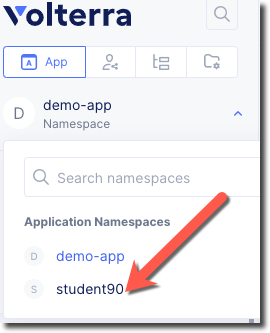
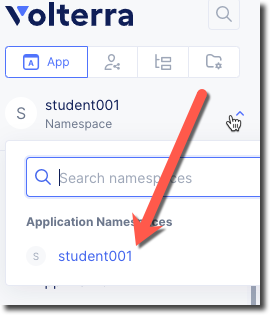
additional screenshots

diff --git a/testdrive/waf/docs/lab2/httpLB.rst b/testdrive/waf/docs/lab2/httpLB.rst
@@ -24,28 +24,28 @@ Exercise 1: HTTP Load Balancer Configuration
     Variable                          Value
     ================================= =====
     Name                              global
-    Domains                           studentXX.sales-public.f5demos.com
+    Domains                           studentXXX.sales-public.f5demos.com
     Select type of Load Balancer      HTTP
     Automatically Manage DNS Records  Yes/Check 
     ================================= =====
 
     |lb-basic|
 
-Exercise 3: Configure Default Origin Server
+Exercise 2: Configure Default Origin Server
 ~~~~~~~~~~~~~~~~~~~~~~~~~~~~~~~~~~~~~~~~~~~
 We'll next configure the "Default Origin Servers". 
     
 #. Click on the *Add Items* link under the *Default Origin Servers* section.
 
 #. The "Select Origin Pool Method" will be set to "Origin Pool". Under the "Origin Pool" dropdown menu select the "public" pool you created earlier.
+
+   .. image:: /_static/lb-pool-public.png
  
 #. Click the *Add Item* button to exit the "Origin Pools" dialogue.
 
 #. Notice that in the "VIP Creation" section *Advertise On Internet* has been selected by default.
 
-    |lb-vip|
-
-Exercise 4: Configure WAF Policy
+Exercise 3: Configure WAF Policy
 ~~~~~~~~~~~~~~~~~~~~~~~~~~~~~~~~
 
 #. Under the *Security Configuration* section 
@@ -65,12 +65,15 @@ Once the HTTP Load Balancer has been deployed, you should now be able to go to t
 previously in a web browser.  The FQDN we used in our example is http://studentXX.sales-public.f5demos.com.  
 Your FQDN should follow the format of [unique name].[supplied domain name for your tenant].
 
-Exercise 5: Verify Configuration
+.. note:: If you are having challenges connecting to the "f5demos.com" name you can also try connecting to the "ves.io" name.
+
+Exercise 4: Verify Configuration
 ~~~~~~~~~~~~~~~~~~~~~~~~~~~~~~~~
 
 The public demo app should look like the following:
 
-.. image:: frontend-public-vip.png
+.. image:: ../_static/screenshot-global-vip-public.png
+  :width: 50%
 
 In this topology we are sending traffic to an AnyCast IP that is hosted in Volterra's Regional Edge.
 
@@ -78,7 +81,11 @@ We then connect to the AWS resource via it's Public IP address.
 
 Try adding the following to the URL "?cat%20/etc/passwd".
 
-Exercise 6: Performance and Security 
+You should see a block page.
+
+.. image:: ../_static/screenshot-global-vip-public-cat-etc-passwd.png
+
+Exercise 5: Performance and Security 
 ~~~~~~~~~~~~~~~~~~~~~~~~~~~~~~~~~~~~
 
 We can view details of successful requests and blocks by navigating to "Apps & APIs"
@@ -87,12 +94,29 @@ We can view details of successful requests and blocks by navigating to "Apps & A
 
    You will allow you to see a  health score of your application as well as end to end latency of the connection.
 
+   .. image:: ../_static/screenshot-global-vip-performance-dashboard.png
+       :width: 50%
+
 #. Click on "Requests" in the upper page navigation
 
    You should be able to view logs for individual requests.
 
-You should now see a block page.  
+   .. image:: ../_static/screenshot-global-vip-public-requests.png
+       :width: 50%
+
+#. Click on "Security Monitoring"->"Security Events"
+   You will be able to see details of the security events.
+
+   .. image:: ../_static/screenshot-global-vip-public-security-events.png
+
+   Clicking on the arrow to the left of a security event will expand the details.
+
+   .. image:: ../_static/screenshot-global-vip-public-security-events-details.png
+       :width: 50%
+
 
 Next we will demonstrate how we 
 can securely connect to your private AWS resources via a VoltMesh node.
 
+.. |app-context| image:: ../_static/app-context.png
+.. |lb-basic| image:: ../_static/lb-basic.png

diff --git a/testdrive/waf/docs/lab2/originPool.rst b/testdrive/waf/docs/lab2/originPool.rst
@@ -18,8 +18,6 @@ We will first create an Origin Pool that refers to the "Public Endpoint" site in
     |app-context|
 
 #. Navigate the menu to go to "Security"->"Load Balancers"->"Origin Pools". Click on *Add Origin Pool*.
- 
-    |op-add-pool|
 
 #. Enter the following variables:
 
@@ -65,17 +63,13 @@ We will first create an Origin Pool that refers to the "Public Endpoint" site in
     name      http
     ========= =====
 
-    |op-spa-check|
-
-#. Click the *configure* button under "HTTP Health Check" and enter the following variables:
+#. Click the *Configure* button under "HTTP Health Check" and enter the following variables ("/" is the default):
 
     ========= =====
     Variable  Value
     ========= =====
     path      /
     ========= =====
-
-    |http_lb_origin_pool_health_check2|
 
 #. Click *Apply* to exit the "Health Check HTTP Parameters" dialogue.
 #. Click *Continue* to return to the "Origin Pool" configuration.

diff --git a/testdrive/waf/docs/lab2/wafPolicy.rst b/testdrive/waf/docs/lab2/wafPolicy.rst
@@ -36,4 +36,8 @@ We will create a blocking WAF policy.
     In this mode we have change the policy to block attacks that are included in 
     the default policy.  Later we will look at how we can customize these settings.
 
+    .. image:: ../_static/blocking-app-firewall-policy.png
+
 #. Click the *Save and Exit* button to create the policy
+
+.. |app-context| image:: ../_static/app-context.png

diff --git a/testdrive/waf/docs/lab1/voltConsole.rst b/testdrive/waf/docs/lab1/voltConsole.rst
@@ -43,7 +43,7 @@ Exercise 2: Find your Namespace
 
 #. Once you log in, you will need to identify your namespace.  
 
-  You should only see two namespaces.  One for "demo-app" and one for ``studentXXX``.
+  You should only see one namespace named ``studentXXX``.
 
   Throughout the lab you should use your assigned student number when prompted to create resources
 
